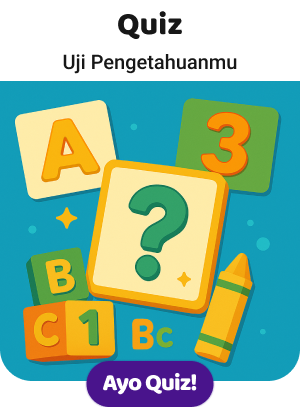
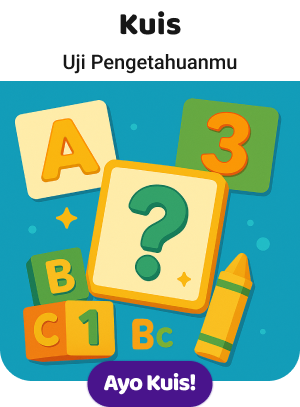
feat: update home view layout to improve responsiveness and user interaction

diff --git a/lib/module/home/view/home_view.dart b/lib/module/home/view/home_view.dart
@@ -24,190 +24,179 @@ class HomeView extends StatefulWidget {
             minWidth: MediaQuery.of(context).size.width,
           ),
           child: SingleChildScrollView(
-            child: Column(
+            child: Row(
+              crossAxisAlignment: CrossAxisAlignment.start,
+              mainAxisAlignment: MainAxisAlignment.spaceBetween,
               children: [
-                Row(
-                  crossAxisAlignment: CrossAxisAlignment.start,
-                  mainAxisAlignment: MainAxisAlignment.spaceBetween,
-                  children: [
-                    Padding(
-                      padding: const EdgeInsets.all(50),
-                      child: Container(
-                        decoration: BoxDecoration(
-                          color: Colors.white.withOpacity(0.8),
-                          borderRadius: const BorderRadius.all(
-                            Radius.circular(
-                              56,
-                            ),
-                          ),
-                        ),
-                        padding: const EdgeInsets.symmetric(
-                            vertical: 8, horizontal: 24),
-                        child: Row(
-                          children: [
-                            InkWell(
-                              onTap: () {
-                                SoundUtils.playSoundWithoutWaiting(
-                                    MediaRes.audio.click);
-                              },
-                              child: Text(
-                                "Home",
-                                style: GoogleFonts.roboto(
-                                  fontSize: 24,
-                                  fontWeight: FontWeight.w600,
-                                  color: yellow900,
-                                ),
-                              ),
-                            ),
-                            const SizedBox(
-                              width: 24.0,
-                            ),
-                            InkWell(
-                              onTap: () async {
-                                await SoundUtils.playSoundWithoutWaiting(
-                                    MediaRes.audio.click);
-                                await SoundUtils.stopSound();
-                                await FlameAudio.bgm.pause();
-
-                                newRouter.go(RouterUtils.leaderboard);
-                              },
-                              child: Text(
-                                "Leaderboard",
-                                style: GoogleFonts.roboto(
-                                  fontSize: 24,
-                                  fontWeight: FontWeight.w600,
-                                  color: yellow900,
-                                ),
-                              ),
-                            ),
-                            const SizedBox(
-                              width: 24.0,
-                            ),
-                            InkWell(
-                              onTap: () async {
-                                await SoundUtils.playSoundWithoutWaiting(
-                                    MediaRes.audio.click);
-                                await SoundUtils.stopSound();
-                                await FlameAudio.bgm.pause();
-
-                                newRouter.go(RouterUtils.credit);
-                              },
-                              child: Text(
-                                "Credit",
-                                style: GoogleFonts.roboto(
-                                  fontSize: 24,
-                                  fontWeight: FontWeight.w600,
-                                  color: yellow900,
-                                ),
-                              ),
-                            ),
-                            const SizedBox(
-                              width: 24.0,
-                            ),
-                            InkWell(
-                              onTap: () async {
-                                await SoundUtils.playSoundWithoutWaiting(
-                                    MediaRes.audio.click);
-                                await SoundUtils.stopSound();
-                                await FlameAudio.bgm.pause();
-
-                                newRouter.go(RouterUtils.panduan);
-                              },
-                              child: Text(
-                                "Panduan",
-                                style: GoogleFonts.roboto(
-                                  fontSize: 24,
-                                  fontWeight: FontWeight.w600,
-                                  color: yellow900,
-                                ),
-                              ),
-                            ),
-                          ],
+                Padding(
+                  padding: const EdgeInsets.all(50),
+                  child: Container(
+                    decoration: BoxDecoration(
+                      color: Colors.white.withOpacity(0.8),
+                      borderRadius: const BorderRadius.all(
+                        Radius.circular(
+                          16,
                         ),
                       ),
                     ),
-                    Padding(
-                      padding: const EdgeInsets.only(right: 220),
-                      child: Image.asset(
-                        MediaRes.logo.logo,
-                        height: 200,
-                        width: 200,
-                      ),
-                    ),
-                    Padding(
-                      padding: const EdgeInsets.all(30),
-                      child: Row(
-                        children: [
-                          InkWell(
-                            onTap: () {
-                              SoundUtils.playSoundWithoutWaiting(
-                                  MediaRes.audio.click);
-                              controller.toggleMute();
-                            },
-                            child: SvgPicture.asset(
-                              controller.isSoundPlay
-                                  ? MediaRes.button.speakerOff
-                                  : MediaRes.button.speakerOn,
-                              width: 50,
+                    padding: const EdgeInsets.all(24),
+                    child: Column(
+                      crossAxisAlignment: CrossAxisAlignment.start,
+                      children: [
+                        InkWell(
+                          onTap: () {
+                            SoundUtils.playSoundWithoutWaiting(MediaRes.audio.click);
+                          },
+                          child: Text(
+                            "Beranda",
+                            style: GoogleFonts.roboto(
+                              fontSize: 24,
+                              fontWeight: FontWeight.w600,
+                              color: yellow900,
                             ),
                           ),
-                          const SizedBox(
-                            width: 16.0,
-                          ),
-                          InkWell(
-                            onTap: () {
-                              SoundUtils.playSoundWithoutWaiting(
-                                  MediaRes.audio.click);
-                              controller.logout();
-                            },
-                            child: SvgPicture.asset(
-                              MediaRes.button.keluar,
-                              width: 50,
+                        ),
+                        const SizedBox(
+                          height: 24.0,
+                        ),
+                        InkWell(
+                          onTap: () async {
+                            await SoundUtils.playSoundWithoutWaiting(MediaRes.audio.click);
+                            await SoundUtils.stopSound();
+                            await FlameAudio.bgm.pause();
+
+                            newRouter.go(RouterUtils.panduan);
+                          },
+                          child: Text(
+                            "Panduan",
+                            style: GoogleFonts.roboto(
+                              fontSize: 24,
+                              fontWeight: FontWeight.w600,
+                              color: yellow900,
                             ),
                           ),
-                        ],
-                      ),
+                        ),
+                        const SizedBox(
+                          height: 24.0,
+                        ),
+                        InkWell(
+                          onTap: () async {
+                            await SoundUtils.playSoundWithoutWaiting(MediaRes.audio.click);
+                            await SoundUtils.stopSound();
+                            await FlameAudio.bgm.pause();
+
+                            newRouter.go(RouterUtils.credit);
+                          },
+                          child: Text(
+                            "Kreator",
+                            style: GoogleFonts.roboto(
+                              fontSize: 24,
+                              fontWeight: FontWeight.w600,
+                              color: yellow900,
+                            ),
+                          ),
+                        ),
+                        const SizedBox(
+                          height: 24.0,
+                        ),
+                        InkWell(
+                          onTap: () async {
+                            await SoundUtils.playSoundWithoutWaiting(MediaRes.audio.click);
+                            await SoundUtils.stopSound();
+                            await FlameAudio.bgm.pause();
+
+                            newRouter.go(RouterUtils.leaderboard);
+                          },
+                          child: Text(
+                            "Peringkat",
+                            style: GoogleFonts.roboto(
+                              fontSize: 24,
+                              fontWeight: FontWeight.w600,
+                              color: yellow900,
+                            ),
+                          ),
+                        ),
+                      ],
                     ),
-                  ],
+                  ),
                 ),
-                const SizedBox(
-                  height: 108,
-                ),
-                Row(
-                  mainAxisAlignment: MainAxisAlignment.center,
+                Column(
                   children: [
-                    InkWell(
-                      onTap: () {
-                        SoundUtils.playSoundWithoutWaiting(
-                            MediaRes.audio.click);
-                        showDialogBase(
-                          maxWidth: 700,
-                          barrierDismissible: true,
-                          content: const DialogPilihBelajar(),
-                        );
-                      },
-                      child: Image.asset(
-                        MediaRes.button.belajar,
-                      ),
+                    Image.asset(
+                      MediaRes.logo.logo,
+                      height: 200,
+                      width: 200,
                     ),
                     const SizedBox(
-                      width: 100,
+                      height: 108,
                     ),
-                    InkWell(
-                      onTap: () {
-                        SoundUtils.playSoundWithoutWaiting(
-                            MediaRes.audio.click);
-                        showDialogBase(
-                          maxWidth: 700,
-                          barrierDismissible: true,
-                          content: const DialogPilihQuiz(),
-                        );
-                      },
-                      child: Image.asset(
-                        MediaRes.button.quiz,
-                      ),
+                    Row(
+                      mainAxisAlignment: MainAxisAlignment.center,
+                      children: [
+                        InkWell(
+                          onTap: () {
+                            SoundUtils.playSoundWithoutWaiting(MediaRes.audio.click);
+                            showDialogBase(
+                              maxWidth: 700,
+                              barrierDismissible: true,
+                              content: const DialogPilihBelajar(),
+                            );
+                          },
+                          child: Image.asset(
+                            MediaRes.button.belajar,
+                          ),
+                        ),
+                        const SizedBox(
+                          width: 100,
+                        ),
+                        InkWell(
+                          onTap: () {
+                            SoundUtils.playSoundWithoutWaiting(MediaRes.audio.click);
+                            showDialogBase(
+                              maxWidth: 700,
+                              barrierDismissible: true,
+                              content: const DialogPilihQuiz(),
+                            );
+                          },
+                          child: Image.asset(
+                            MediaRes.button.quiz,
+                          ),
+                        ),
+                      ],
                     ),
                   ],
+                ),
+                Padding(
+                  padding: const EdgeInsets.all(30),
+                  child: Row(
+                    children: [
+                      InkWell(
+                        onTap: () {
+                          SoundUtils.playSoundWithoutWaiting(MediaRes.audio.click);
+                          controller.toggleMute();
+                        },
+                        child: SvgPicture.asset(
+                          controller.isSoundPlay
+                              ? MediaRes.button.speakerOff
+                              : MediaRes.button.speakerOn,
+                          width: 50,
+                        ),
+                      ),
+                      const SizedBox(
+                        width: 16.0,
+                      ),
+                      InkWell(
+                        onTap: () {
+                          SoundUtils.playSoundWithoutWaiting(MediaRes.audio.click);
+                          controller.logout();
+                        },
+                        child: SvgPicture.asset(
+                          MediaRes.button.keluar,
+                          width: 50,
+                        ),
+                      ),
+                    ],
+                  ),
                 ),
               ],
             ),
